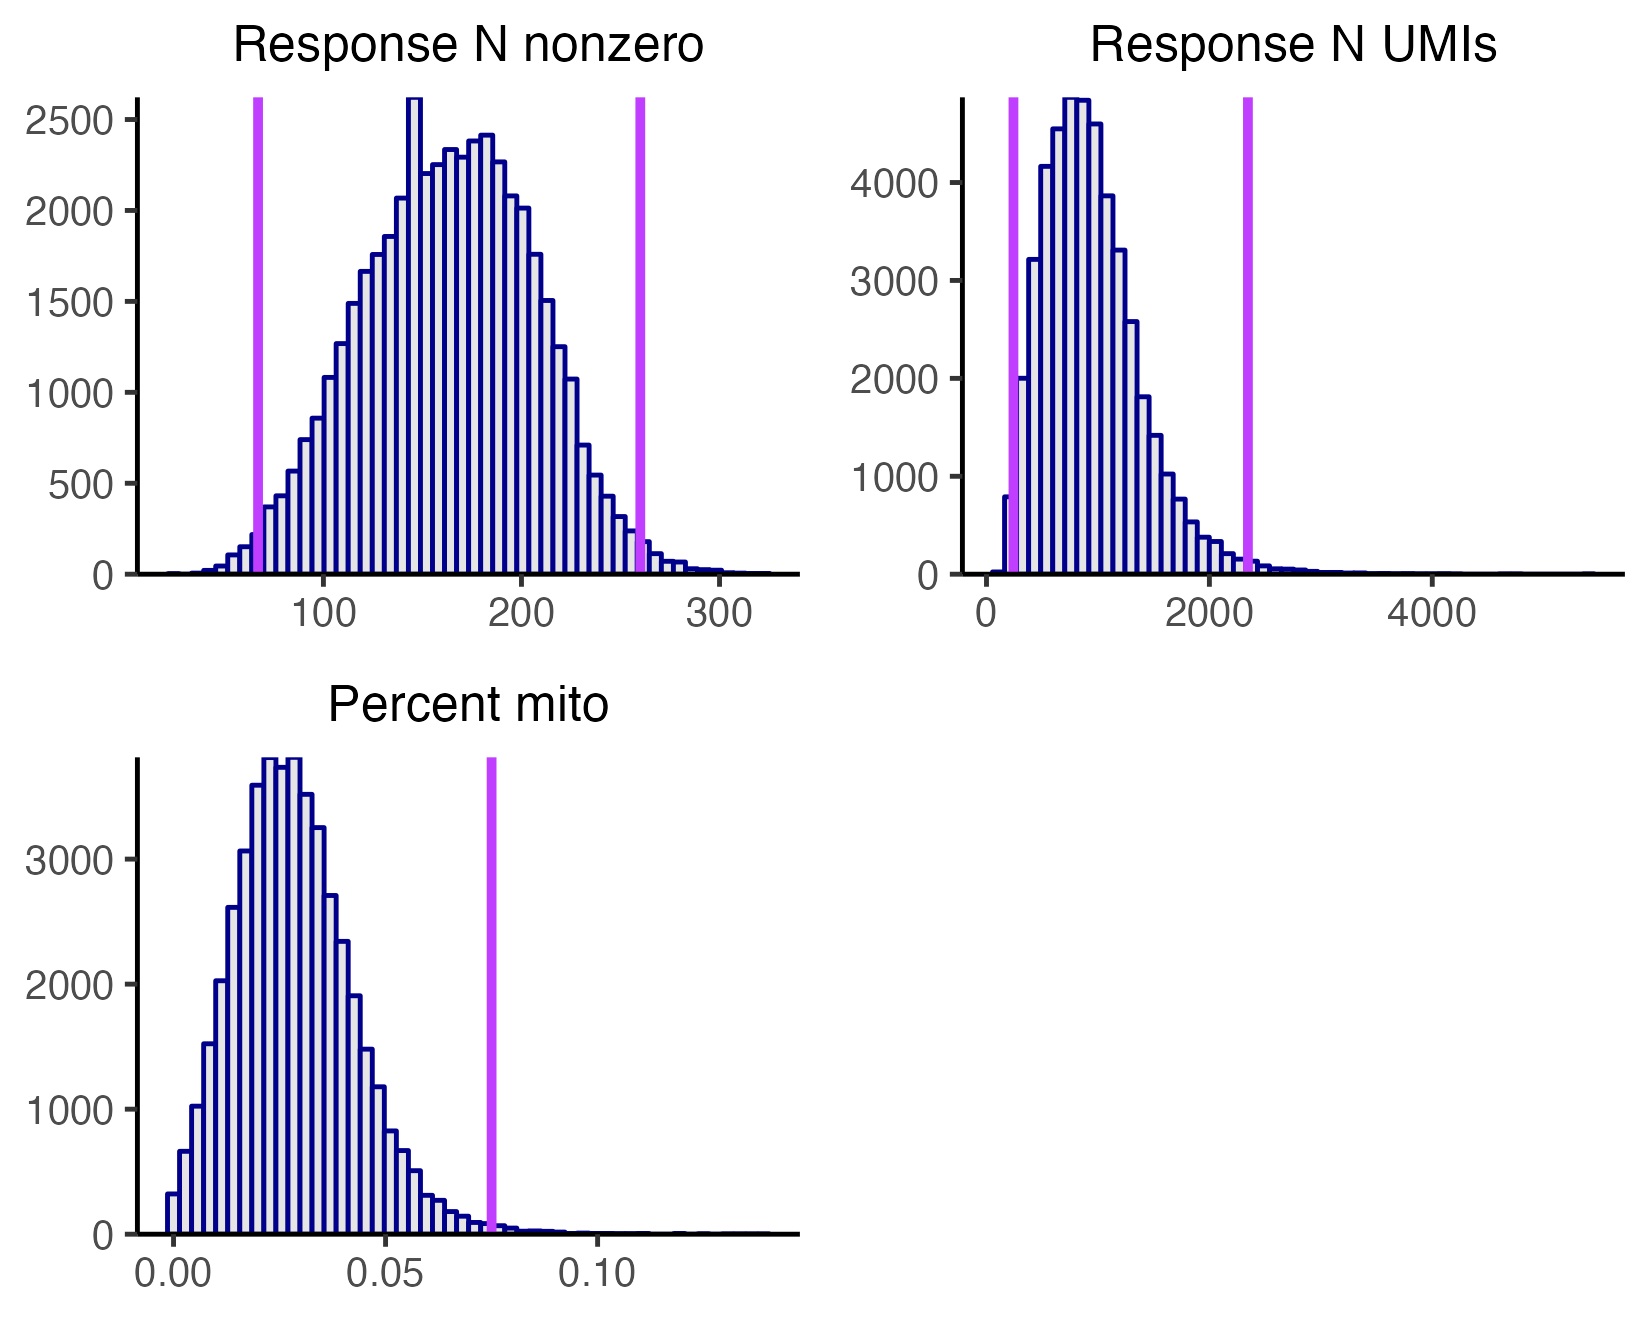
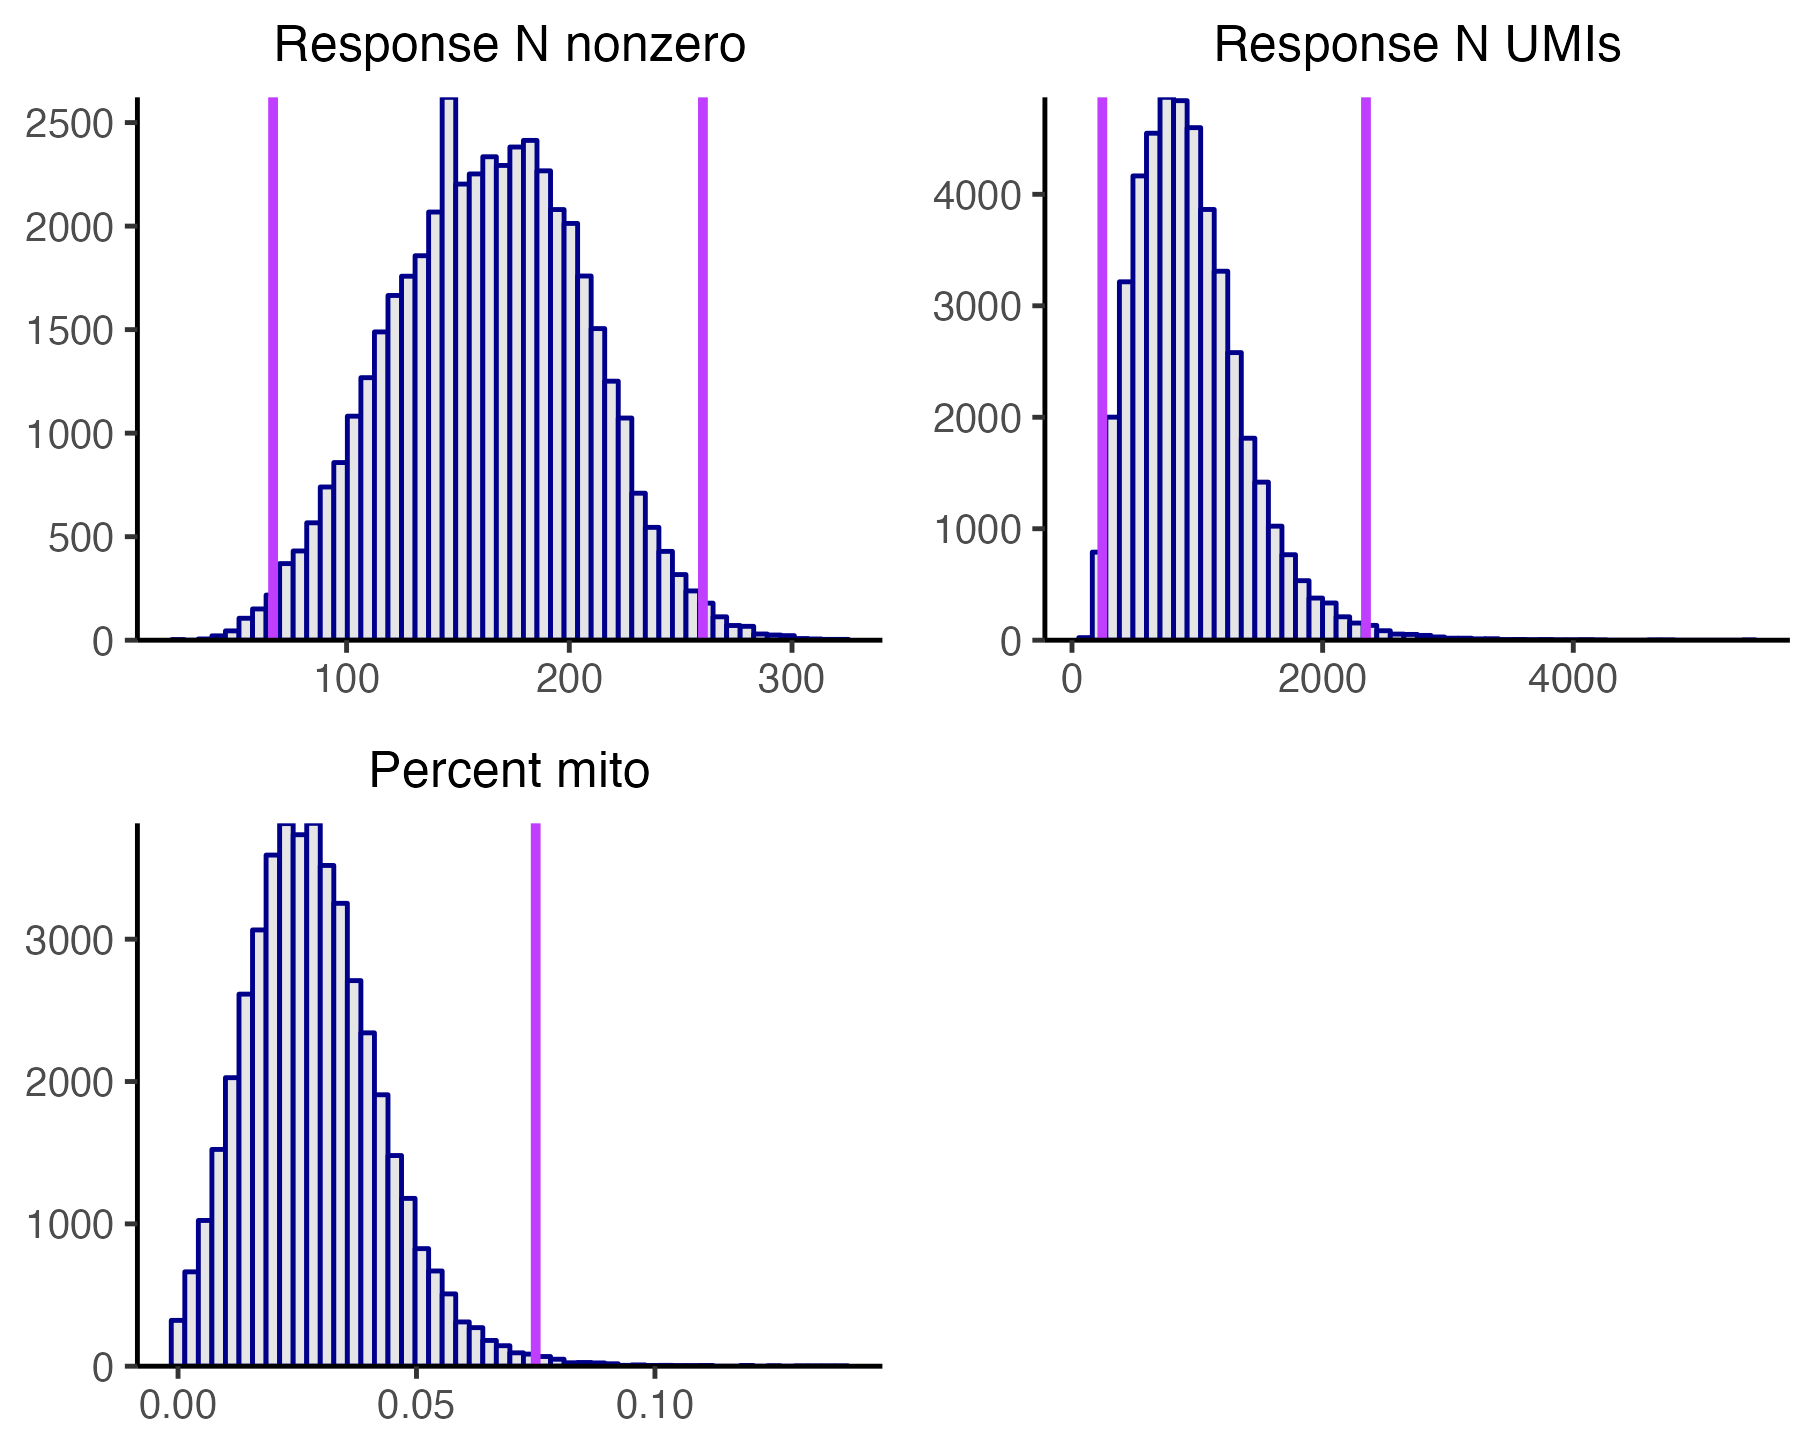
update qc vignette

Changed region(s): [[0.0, 0.0, 0.4945, 0.9939], [0.4945, 0.0, 0.9891, 0.497]]

diff --git a/docs/articles/index.html b/docs/articles/index.html
@@ -31,6 +31,7 @@
     <a class="dropdown-item" href="../articles/import-data.html">Import data</a>
     <a class="dropdown-item" href="../articles/run-qc.html">Run quality control</a>
     <a class="dropdown-item" href="../articles/set-analysis-parameters.html">Set analysis parameters</a>
+    <a class="dropdown-item" href="../articles/troubleshooting-and-faq.html">Troubleshooting and frequently asked questions</a>
   </div>
 </li>
 <li class="nav-item">
@@ -68,6 +69,8 @@
         </dd><dt><a href="sceptre.html">Get started with sceptre</a></dt>
         <dd>
         </dd><dt><a href="set-analysis-parameters.html">Set analysis parameters</a></dt>
+        <dd>
+        </dd><dt><a href="troubleshooting-and-faq.html">Troubleshooting and frequently asked questions</a></dt>
         <dd>
       </dd></dl></div>
   </main></div>
